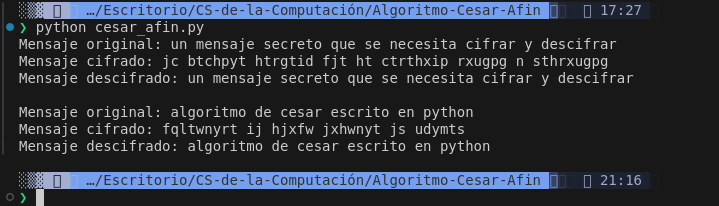
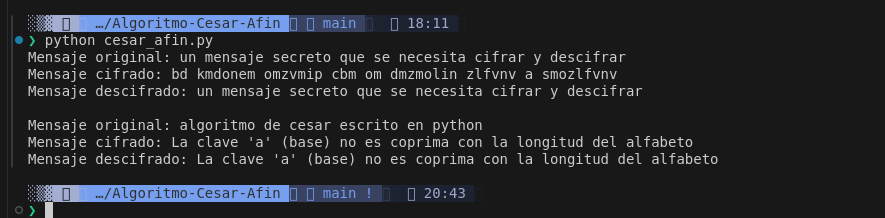
Actualizado proyecto en general

Changed region(s): [[0.0, 0.0, 0.8873, 0.7573], [0.0, 0.8155, 0.8873, 1.0]]

diff --git a/templates/index.html b/templates/index.html
@@ -6,30 +6,49 @@
 </head>
 <body>
     <h1>Cifrado César-Afín</h1>
-    <form action="/procesar" method="post">
-        <label for="mensaje">Mensaje:</label>
-        <input type="text" id="mensaje" name="mensaje" required><br><br>
-        
-        <label>Alfabeto:</label><br>
-        <input type="radio" id="alfabeto_sin_enie" name="alfabeto" value="ABCDEFGHIJKLMNOPQRSTUVWXYZ" checked>
-        <label for="alfabeto_sin_enie">'ABCDEFGHIJKLMNOPQRSTUVWXYZ'</label><br>
-        
-        <input type="radio" id="alfabeto_con_enie" name="alfabeto" value="ABCDEFGHIJKLMNÑOPQRSTUVWXYZ">
-        <label for="alfabeto_con_enie">'ABCDEFGHIJKLMNÑOPQRSTUVWXYZ'</label><br><br>
-        
-        <label for="clave">Clave:</label>
-        <input type="number" id="clave" name="clave" required><br><br>
-        
-        <input type="radio" id="cifrar" name="accion" value="cifrar" checked>
-        <label for="cifrar">Cifrar</label><br>
-        
-        <input type="radio" id="descifrar" name="accion" value="descifrar">
-        <label for="descifrar">Descifrar</label><br><br>
-        
-        <input type="submit" value="Procesar">
-    </form>
+    <h2>Algoritmo de cifrado César-Afín</h2>
+    <p>El cifrado César es un tipo de cifrado por sustitución en el cual cada letra de un texto se reemplaza por otra 
+        letra que se encuentra un número fijo (k) de posiciones más adelante en el alfabeto.</p>
+    <p>El cifrado Afín es una variante del cifrado César en la que se añade una clave adicional (a) que se multiplica 
+        por la posición de la letra en el alfabeto antes de aplicar el desplazamiento (b).</p>
+    <p>Este algoritmo (César-Afín) implementa ambos cifrados uno detrás del otro donde primeramente el mensaje 
+        se cifra con el cifrado César y una clave k (calculada como base + desplazamiento). 
+        Luego, el mensaje se vuelve a cifrar con el algoritmo Afín.</p>
+    <br>
+    <h3>Funcionamiento:</h3>
+    <p>Introduce el mensaje a cifrar o descifrar, selecciona el alfabeto y la clave (base y desplazamiento) para obtener el resultado.</p>
+    <p>Nota: Para que funcione correctamente, el valor de la longitud del alfabeto elegido y el valor de la base deben ser coprimos, 
+        es decir, el máximo común divisor entre estos valores debe ser el 1.</p>
+    <br>
+    <div class="container" style="padding: 40px; border: 2px solid;">
+        <form action="/procesar" method="post">
+            <label for="mensaje">Mensaje:</label>
+            <input type="text" id="mensaje" name="mensaje" required><br><br>
+            
+            <label>Alfabeto:</label><br>
+            <input type="radio" id="alfabeto_sin_enie" name="alfabeto" value="ABCDEFGHIJKLMNOPQRSTUVWXYZ" checked>
+            <label for="alfabeto_sin_enie">'ABCDEFGHIJKLMNOPQRSTUVWXYZ'</label><br>
+            
+            <input type="radio" id="alfabeto_con_enie" name="alfabeto" value="ABCDEFGHIJKLMNÑOPQRSTUVWXYZ">
+            <label for="alfabeto_con_enie">'ABCDEFGHIJKLMNÑOPQRSTUVWXYZ'</label><br><br>
+            <div style="display: flex; justify-content: flex-start; align-items: flex-start;">
+                <label for="clave_a">Base:</label>
+                <input type="number" id="clave_a" name="clave_a"  style="width: 50px;" required><br><br>
+                <label for="clave_b" style="padding-left: 50px;">Desplazamiento:</label>
+                <input type="number" id="clave_b   " name="clave_b" style="width: 50px;" required><br><br>
+        </div>
+                    
+            <input type="radio" id="cifrar" name="accion" value="cifrar" checked>
+            <label for="cifrar">Cifrar</label><br>
+            
+            <input type="radio" id="descifrar" name="accion" value="descifrar">
+            <label for="descifrar">Descifrar</label><br><br>
+            
+            <input type="submit" value="Procesar">
+        </form>
+        <div id="resultado"></div>
+    </div>
 
-    <div id="resultado"></div>
     <script>
         document.querySelector('form').addEventListener('submit', function(event) {
             event.preventDefault();

diff --git a/cesar_afin.py b/cesar_afin.py
@@ -1,49 +1,102 @@
-def cifrar(mensaje, k, alfabeto):
+def cifrar(mensaje, a, b, alfabeto):
     alfabeto = alfabeto.lower()
     mensaje = mensaje.lower()
-    resultado = ''
     n = len(alfabeto)
+
+    if not esCoPrimo(a, len(alfabeto)):
+        return "La clave 'a' (base) no es coprima con la longitud del alfabeto"
+
+    #Cifrado de César
+    cifradoCesar = ''
+    k = a+b
     for char in mensaje:
         if char in alfabeto:
             index = alfabeto.index(char)
-            nuevo_index = (index + k) % n # Aritmética modular desplarzar k posiciones
-            resultado += alfabeto[nuevo_index]
+            nuevo_index = (index + k) % n
+            cifradoCesar += alfabeto[nuevo_index]
         else:
-            resultado += char
-    return resultado
+            cifradoCesar += char
 
-def descifrar(mensaje, k, alfabeto):
+    # Cifrado afín
+    cifradoAfin = ''
+    for char in cifradoCesar:
+        if char in alfabeto:
+            index = alfabeto.index(char)
+            nuevo_index = (a*index + b) % n
+            cifradoAfin += alfabeto[nuevo_index]
+        else:
+            cifradoAfin += char
+
+    return cifradoAfin
+
+def descifrar(mensaje, a ,b , alfabeto):
     alfabeto = alfabeto.lower()
     mensaje = mensaje.lower()
-    resultado = ''
     n = len(alfabeto)
+
+    if not esCoPrimo(a, len(alfabeto)):
+        return "La clave 'a' (base) no es coprima con la longitud del alfabeto"
+    
+    # Descifrado Afín
+    descifradoAfin = ''
+    a_inv = inverso_multiplicativo(a, n)
+    
     for char in mensaje:
+        if char in alfabeto:
+            index = alfabeto.index(char)
+            nuevo_index = (a_inv*(index - b)) % n
+            descifradoAfin += alfabeto[nuevo_index]
+        else:
+            descifradoAfin += char
+    
+    # Descifrado de César
+    descifradoCesar = ''
+    k = a+b
+    for char in descifradoAfin:
         if char in alfabeto:
             index = alfabeto.index(char)
             nuevo_index = (index - k) % n
-            resultado += alfabeto[nuevo_index]
+            descifradoCesar += alfabeto[nuevo_index]
         else:
-            resultado += char
-    return resultado
+            descifradoCesar += char
+
+    return descifradoCesar
+
+def esCoPrimo(a, n):
+    if a == 1:
+        return True
+    for i in range(2, n):
+        if a % i == 0 and n % i == 0:
+            return False
+    return True
+
+# inverso multiplicativo en aritmética modular (a^-1) es el menor número que (a*a^-1)mod m = 1
+def inverso_multiplicativo(a, n):
+    for i in range(1, n):
+        if (a*i) % n == 1:
+            return i
+    return None
 
 # Pruebas
 if __name__ == "__main__":
-    alfabeto = 'ABCDEFGHIJKLMNOPQRSTUVWXYZ'
+    alfabeto = 'abcdefghijklmnñopqrstuvwxyz'
     mensaje_original = 'un mensaje secreto que se necesita cifrar y descifrar'
-    k = 587
+    a = 587
+    b = 123
 
-    mensaje_cifrado = cifrar(mensaje_original, k, alfabeto)
-    mensaje_descifrado = descifrar(mensaje_cifrado, k, alfabeto)
+    mensaje_cifrado = cifrar(mensaje_original, a, b, alfabeto)
+    mensaje_descifrado = descifrar(mensaje_cifrado, a, b, alfabeto)
 
     print(f"Mensaje original: {mensaje_original}")
     print(f"Mensaje cifrado: {mensaje_cifrado}")
     print(f"Mensaje descifrado: {mensaje_descifrado}")
 
     mensaje_original = 'algoritmo de cesar escrito en python'
-    k = 5
+    a = 3
+    b = 7
 
-    mensaje_cifrado = cifrar(mensaje_original, k, alfabeto)
-    mensaje_descifrado = descifrar(mensaje_cifrado, k, alfabeto)
+    mensaje_cifrado = cifrar(mensaje_original, a, b, alfabeto)
+    mensaje_descifrado = descifrar(mensaje_cifrado, a, b, alfabeto)
 
     print(f"\nMensaje original: {mensaje_original}")
     print(f"Mensaje cifrado: {mensaje_cifrado}")

diff --git a/app.py b/app.py
@@ -11,17 +11,18 @@ def index():
 def procesar():
     mensaje = request.form['mensaje']
     alfabeto= request.form['alfabeto']
-    clave = int(request.form['clave'])
+    clave_a = int(request.form['clave_a'])
+    clave_b = int(request.form['clave_b'])
     accion = request.form['accion']
     
     if accion == 'cifrar':
-        resultado = cifrar(mensaje, clave, alfabeto)
+        resultado = cifrar(mensaje, clave_a, clave_b, alfabeto)
     else:
-        resultado = descifrar(mensaje, clave, alfabeto)
+        resultado = descifrar(mensaje, clave_a, clave_b, alfabeto)
     
     print(f"Mensaje: {mensaje}")
     print(f"Alfabeto: {alfabeto}")
-    print(f"Desplazamiento: {clave}")
+    print(f"Clave (base, desplazamiento): {clave_a, clave_b}")
     print(f"Accion: {accion}")
     print(f"Resultado: {resultado}")
     

diff --git a/readme.md b/readme.md
@@ -1,10 +1,12 @@
-# Cifrado César afín
+# Cifrado César-Afín
 
 ## Descripción General
 
-Este proyecto, con base en ciencias de la computación, implementa un cifrado César afín utilizando Python y Flask. El cifrado César es una técnica de encriptación simple en la se hace uso de la aritmética modular para que cada letra del texto se desplace un número fijo de posiciones en el alfabeto.
+Este proyecto, con base en ciencias de la computación, implementa un cifrado César y cifrado afín consecutivamente utilizando Python y Flask.  
+El cifrado César es una técnica de encriptación simple en la se hace uso de la aritmética modular para que cada letra del texto se desplace un número fijo de posiciones en el alfabeto.
+El cifrado afín es una generalización del cifrado César, en el que se desplaza un número fijo de posiciones en el alfabeto, pero además se aplica una transformación lineal a cada letra.
 
-Se puede cifrar o descifrar un mensaje utilizando una clave que indica cuántas posiciones se desplazarán las letras.
+Se puede cifrar o descifrar un mensaje utilizando una clave `a` (base) y una `b` (desplazamiento) que indica las transformaciones y posiciones que se desplazarán las letras.
 
 El objetivo principal de este proyecto es proporcionar una interfaz web para cifrar y descifrar mensajes utilizando este método.
 
@@ -37,8 +39,16 @@ Para instalar este proyecto, sigue estos pasos:
 
 ### Resultado del cifrado
 
-![Resultado del cifrado](capturas/Captura_2024-08-25_2.png)
+![Resultado del cifrado](capturas/Captura_2024-08-26_2.png)
 
 ### Resultado del descifrado
 
-![Resultado del descifrado](capturas/Captura_2024-08-25_3.png)
+![Resultado del descifrado](capturas/Captura_2024-08-26_3.png)
+
+### Resultado al cifrar con base no coprima
+
+![Resultado del descifrado](capturas/Captura_2024-08-26_4.png)
+
+### Resultado al descifrar con base no coprim
+
+![Resultado del descifrado](capturas/Captura_2024-08-26_5.png)
